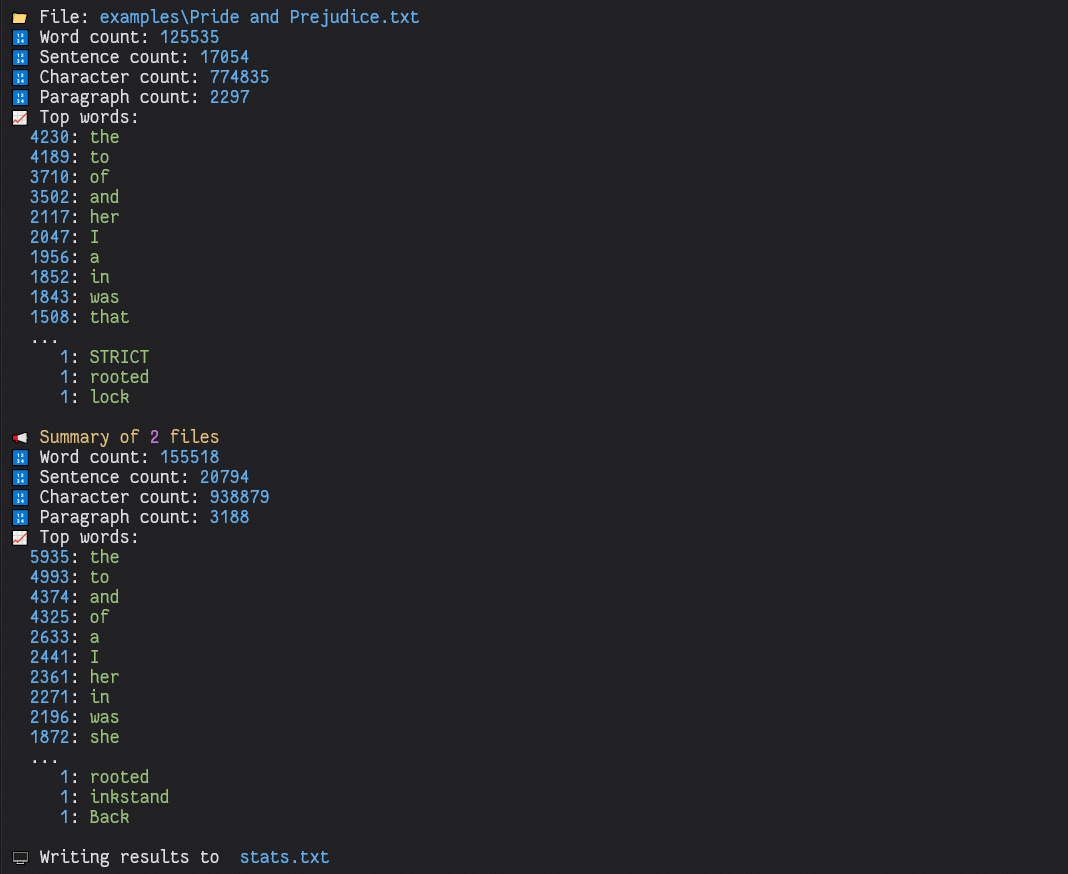
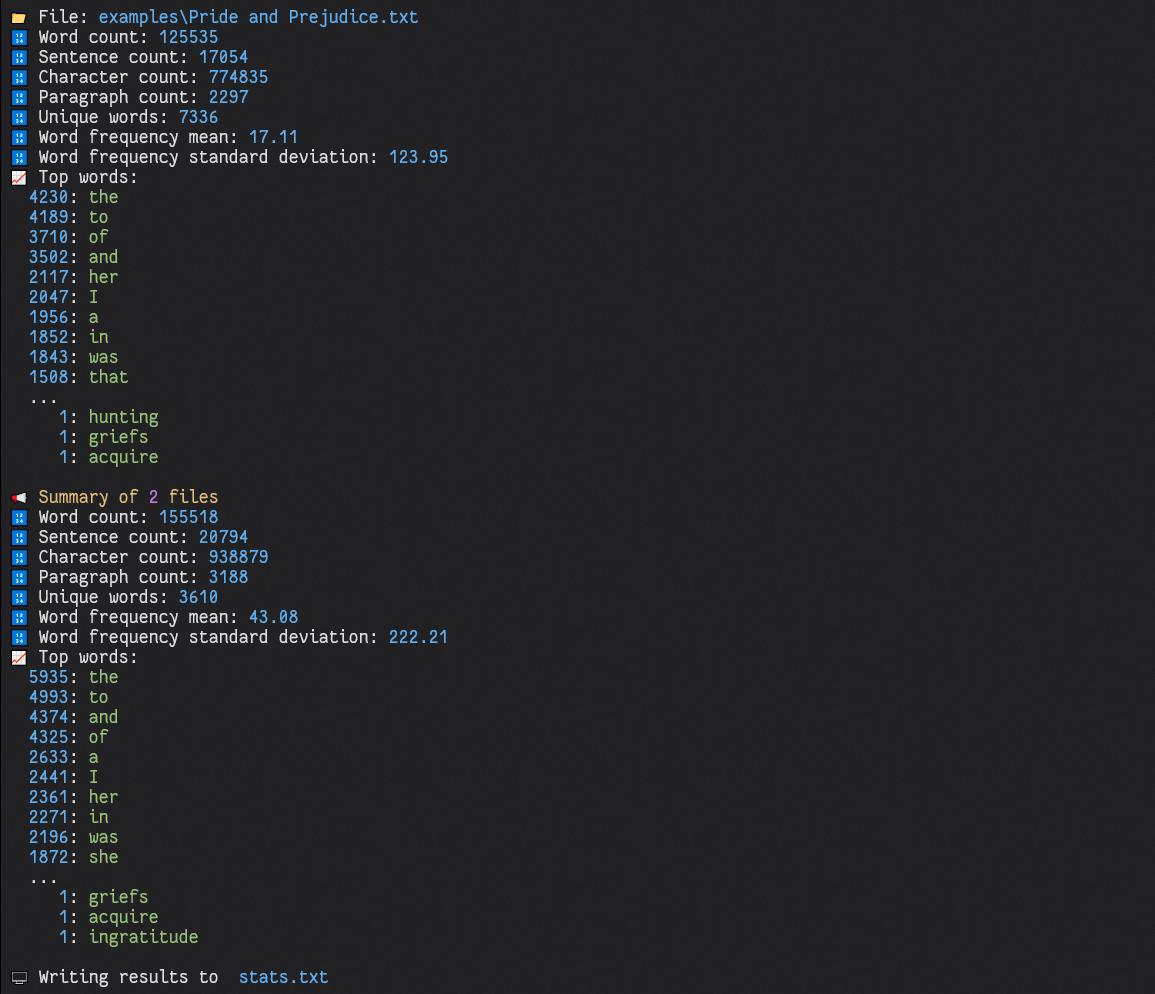
Add stats for unique words and frequency distribution

Changed region(s): [[0.0, 0.4943, 0.4017, 1.0], [0.0, 0.0, 0.4017, 0.4634], [0.3399, 0.1545, 0.4017, 0.1854]]

diff --git a/src/shared.rs b/src/shared.rs
@@ -24,8 +24,11 @@ pub struct Analysis {
     pub char_count: usize,
     pub sent_count: usize,
     pub para_count: usize,
+    pub word_uniqs: usize,
     pub word_freq: Vec<(usize, UniqueString)>,
     pub word_freq_map: DashMap<UniqueString, usize, BuildHasherDefault<IdentityHasher>>,
+    pub word_dist_mean: f64,
+    pub word_dist_stddev: f64,
 }
 
 #[derive(Default, Debug, Clone)]
@@ -80,10 +83,26 @@ async fn process(
         .sum();
     map.iter().for_each(|item| {
         let (word, count) = (item.key(), item.value());
-        analysis.word_freq.push((*count, *word))
+        analysis.word_freq.push((*count, *word));
     });
     analysis.word_freq.sort_by(|(a, _), (b, _)| b.cmp(a));
     analysis.word_freq_map = map;
+    analysis.word_uniqs = analysis.word_freq.len();
+    analysis.word_dist_mean = analysis
+        .word_freq
+        .iter()
+        .map(|a| a.0)
+        .reduce(|a, b| a + b)
+        .unwrap_or_default() as f64
+        / analysis.word_uniqs as f64;
+    analysis.word_dist_stddev = (analysis
+        .word_freq
+        .iter()
+        .map(|a| (a.0 as f64 - analysis.word_dist_mean).powi(2))
+        .reduce(|a, b| a + b)
+        .unwrap_or_default()
+        / analysis.word_uniqs as f64)
+        .sqrt();
 
     Ok(analysis)
 }
@@ -205,6 +224,28 @@ pub fn analyze<
         .into_iter()
         .filter_map(|analysis| analysis.ok())
         .collect();
+    if let Some(analysis) = &mut total {
+        analysis.word_freq_map.iter().for_each(|item| {
+            let (word, count) = (item.key(), item.value());
+            analysis.word_freq.push((*count, *word))
+        });
+        analysis.word_freq.sort_by(|(a, _), (b, _)| b.cmp(a));
+        analysis.word_dist_mean = analysis
+            .word_freq
+            .iter()
+            .map(|a| a.0)
+            .reduce(|a, b| a + b)
+            .unwrap_or_default() as f64
+            / analysis.word_uniqs as f64;
+        analysis.word_dist_stddev = (analysis
+            .word_freq
+            .iter()
+            .map(|a| (a.0 as f64 - analysis.word_dist_mean).powi(2))
+            .reduce(|a, b| a + b)
+            .unwrap_or_default()
+            / analysis.word_uniqs as f64)
+            .sqrt();
+    }
 
     (analyses, total)
 }

diff --git a/src/main_cli.rs b/src/main_cli.rs
@@ -72,6 +72,21 @@ fn print_analysis(analysis: &Analysis, top_words: usize, bottom_words: usize) {
         Emoji("🔢 ", ""),
         style(&format!("{}", analysis.para_count)).blue()
     );
+    println!(
+        "{}Unique words: {}",
+        Emoji("🔢 ", ""),
+        style(&format!("{}", analysis.word_uniqs)).blue()
+    );
+    println!(
+        "{}Word frequency mean: {}",
+        Emoji("🔢 ", ""),
+        style(&format!("{:.2}", analysis.word_dist_mean)).blue()
+    );
+    println!(
+        "{}Word frequency standard deviation: {}",
+        Emoji("🔢 ", ""),
+        style(&format!("{:.2}", analysis.word_dist_stddev)).blue()
+    );
     println!("{}Top words:", Emoji("📈 ", ""));
     for (i, (freq, string)) in analysis.word_freq.iter().enumerate() {
         if top_words > 0 && i >= top_words {
@@ -222,14 +237,8 @@ fn main() {
         print_analysis(analysis, args.top_words, args.bottom_words);
     }
 
-    if let Some(mut analysis) = total {
+    if let Some(analysis) = total {
         if analyses_count > 1 {
-            analysis.word_freq_map.iter().for_each(|item| {
-                let (word, count) = (item.key(), item.value());
-                analysis.word_freq.push((*count, *word));
-            });
-            analysis.word_freq.sort_by(|(a, _), (b, _)| b.cmp(a));
-
             println!();
             println!(
                 "{}{} {} {}",

diff --git a/src/main_gui.rs b/src/main_gui.rs
@@ -298,6 +298,15 @@ fn analysis_to_string(
     buffer.push_str(&format!("🔢 Sentence count: {}\n", analysis.sent_count));
     buffer.push_str(&format!("🔢 Character count: {}\n", analysis.char_count));
     buffer.push_str(&format!("🔢 Paragraph count: {}\n", analysis.para_count));
+    buffer.push_str(&format!("🔢 Unique words: {}\n", analysis.word_uniqs));
+    buffer.push_str(&format!(
+        "🔢 Word frequency mean: {:.2}\n",
+        analysis.word_dist_mean
+    ));
+    buffer.push_str(&format!(
+        "🔢 Word frequency standard deviation: {:.2}\n",
+        analysis.word_dist_stddev
+    ));
     buffer.push_str("📈 Top words:\n");
     buffer.push_str(if analysis_string.is_empty() {
         if search_text.is_empty() {
@@ -558,14 +567,7 @@ impl App {
         }
         let thread = thread.take().unwrap();
 
-        let (analyses, mut total) = thread.join().unwrap();
-        if let Some(ref mut analysis) = total {
-            analysis.word_freq_map.iter().for_each(|item| {
-                let (word, count) = (item.key(), item.value());
-                analysis.word_freq.push((*count, *word))
-            });
-            analysis.word_freq.sort_by(|(a, _), (b, _)| b.cmp(a));
-        }
+        let (analyses, total) = thread.join().unwrap();
         (*self.analyses.borrow_mut()) = (analyses, total);
 
         self.text.set_text(&get_result_text(
